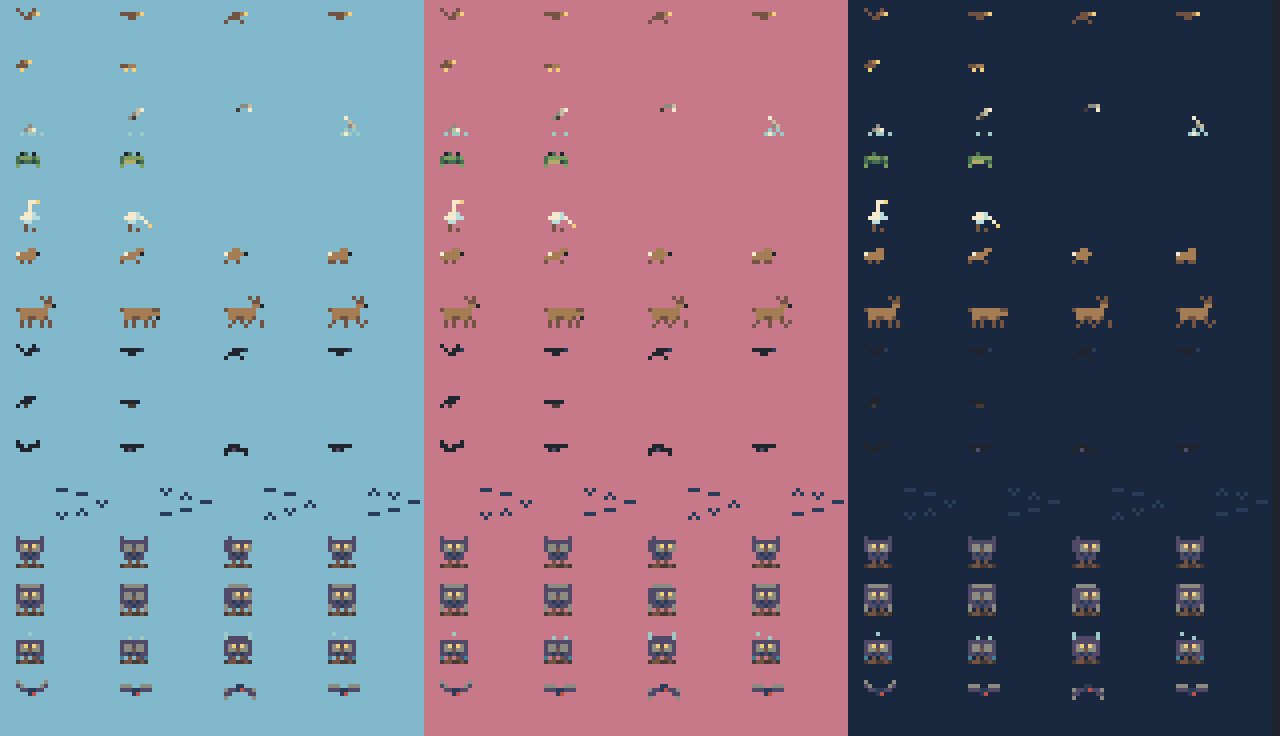
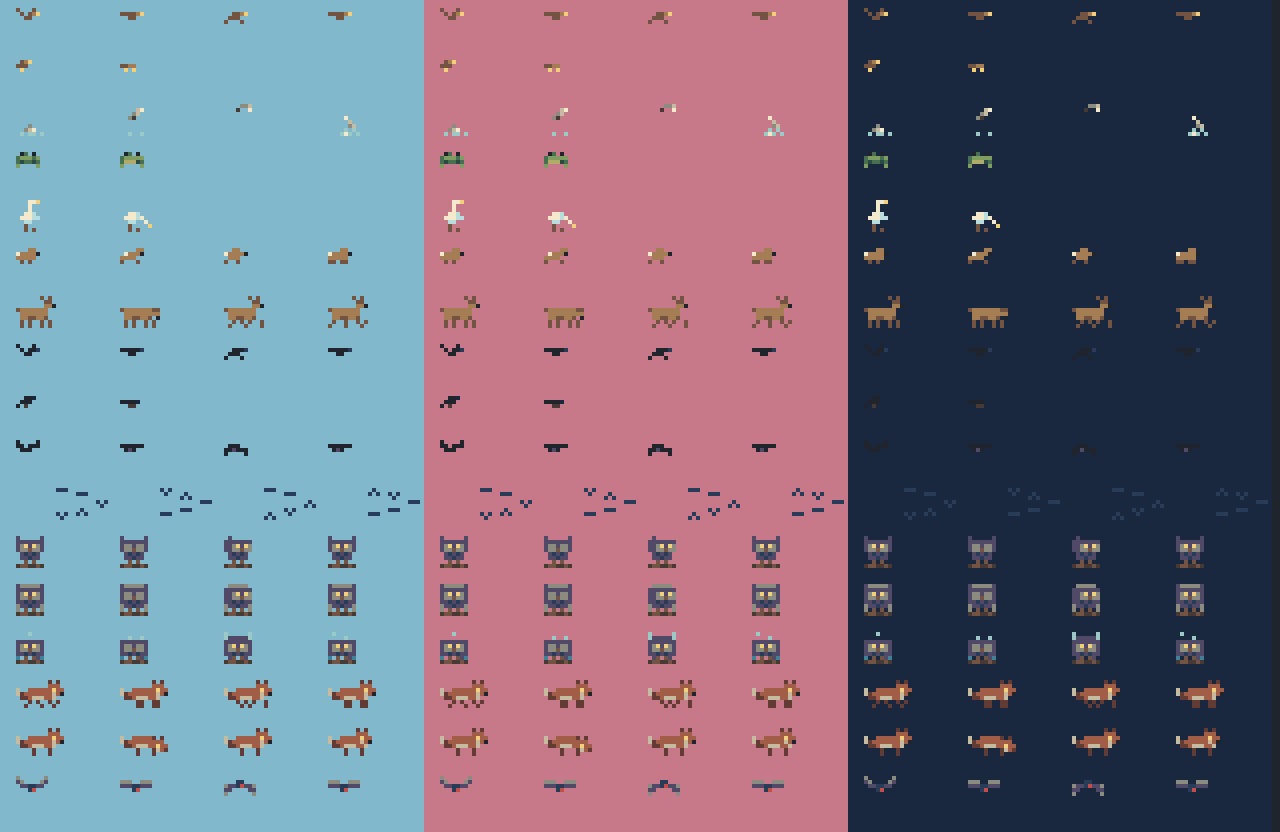
Raposa da madrugada (criaturas/raposa_noite_4q trotando e raposa_parada_4q), em tons de noite; LEIA-ME seção 17; atlas regenerados

diff --git a/arte_claude/pecas/criaturas/criaturas.py b/arte_claude/pecas/criaturas/criaturas.py
@@ -12,7 +12,7 @@ sys.path.insert(0, str(AQUI.parent))
 
 from comum import PALETA, folha_quadros, gravar, para_imagem  # noqa: E402
 
-K = {"x": 30, "d": 8, "n": 9, "N": 10, "G": 12, "g": 11, "W": 31, "w": 0, "y": 22, "o": 21, "r": 20,
+K = {"R": 24, "Q": 23, "C": 12, "x": 30, "d": 8, "n": 9, "N": 10, "G": 12, "g": 11, "W": 31, "w": 0, "y": 22, "o": 21, "r": 20,
      "v": 15, "V": 14, "m": 13, "b": 18, "c": 19, "B": 17, "e": 3, "k": 4, "K": 5, "s": 16}
 
 
@@ -113,6 +113,22 @@ CRIATURAS = {
         ["c.....c", "cKKKKKc", "KKKKKKK", "KgyKygK", "KggnggK", "KKkKkKK", ".Kn.nK.", "dnnddnd"],
         [".c.....", "....c..", "KKKKKKK", "KgyKygK", "KggnggK", "KKkKkKK", "b.n.nKb", "dnnddnd"],
     ),
+    # raposa da madrugada (12x7), já em tons de noite: ferrugem apagada (24 e 23), peito e
+    # ponta do rabo claros (12), olho que brilha (22). Trote: as patas alternam.
+    "raposa_noite_4q": molde(
+        ["........Q.Q.", "........RRR.", "C..RRRRRRyRR", "CQRRRRRRRCRx", ".QQRCCCRRC..", "...Q.Q..Q.Q.", "..Q...Q..Q.."],
+        ["........Q.Q.", "........RRR.", "C..RRRRRRyRR", "CQRRRRRRRCRx", ".QQRCCCRRC..", "....QQ..QQ..", "....QQ..QQ.."],
+        ["........Q.Q.", "........RRR.", "C..RRRRRRyRR", "CQRRRRRRRCRx", ".QQRCCCRRC..", "...Q.Q.Q..Q.", "....Q.Q...Q."],
+        ["........Q.Q.", "........RRR.", "C..RRRRRRyRR", "CQRRRRRRRCRx", ".QQRCCCRRC..", "....QQ..QQ..", "....QQ..QQ.."],
+    ),
+    # raposa parada (12x7): olhando (olho aceso), cheirando o chão (cabeça baixa), olhando,
+    # e de orelha em pé virada para trás
+    "raposa_parada_4q": molde(
+        ["........Q.Q.", "........RRR.", "C..RRRRRRyRR", "CQRRRRRRRCRx", ".QQRCCCRRC..", "....Q...Q...", "....Q...Q..."],
+        ["............", "............", "C..RRRRRQ.Q.", "CQRRRRRRRRR.", ".QQRCCCRRyRR", "....Q...QCRQ", "....Q...Q..."],
+        ["........Q.Q.", "........RRR.", "C..RRRRRRyRR", "CQRRRRRRRCRx", ".QQRCCCRRC..", "....Q...Q...", "....Q...Q..."],
+        [".......Q.Q..", ".......RRR..", "C..RRRRRyRR.", "CQRRRRRRCRx.", ".QQRCCCRRC..", "....Q...Q...", "....Q...Q..."],
+    ),
     # morcego da madrugada (8x5), maior que o do entardecer e com a borda das asas clara
     # (luz da lua) para ler sobre o céu escuro; olhos vermelhos
     "morcego_noite_4q": molde(
@@ -155,6 +171,8 @@ QUANDO = {
     "bando_migrando_4q": ("inverno (e fim do outono)", "dia", "atravessa o céu alto de um lado a outro"),
     "coruja_pousada_4q": ("todas", "noite e madrugada", "pousada num galho de árvore ou no telhado; pisca"),
     "morcego_noite_4q": ("primavera, verão, outono", "noite e madrugada", "voa em zigue-zague perto das árvores e da fogueira"),
+    "raposa_noite_4q": ("todas", "noite e madrugada", "trota na beira da floresta e da vila, de cabeça baixa"),
+    "raposa_parada_4q": ("todas", "noite e madrugada", "para, cheira o chão e olha em volta; foge de gente"),
     "coruja_neve_4q": ("inverno", "noite e madrugada", "no lugar da coruja pousada quando há neve"),
     "coruja_chuva_4q": ("todas menos inverno", "noite e madrugada, com chuva", "no lugar da pousada enquanto chove"),
 }

diff --git a/arte_claude/pecas/LEIA-ME.md b/arte_claude/pecas/LEIA-ME.md
@@ -476,7 +476,7 @@ As amostras são `amostra_tela_estante_4x.png` (duas prateleiras com 12 eras) e 
 
 ## 17. Vida ambiente (`criaturas/`)
 
-São criaturas que não fazem parte da simulação: só dão vida ao cotidiano. São pequenas, animadas e olham para a direita; para o outro lado, o motor espelha. A base é a última linha: os pés de quem está no chão, ou o centro de quem voa. Elas usam a tabela `noite`, menos os morcegos e a coruja, que já vêm em tons de noite. `amostra_criaturas_4x.png` mostra todas sobre o dia, o entardecer e a noite.
+São criaturas que não fazem parte da simulação: só dão vida ao cotidiano. São pequenas, animadas e olham para a direita; para o outro lado, o motor espelha. A base é a última linha: os pés de quem está no chão, ou o centro de quem voa. Elas usam a tabela `noite`, menos os morcegos, a coruja e a raposa, que já vêm em tons de noite. `amostra_criaturas_4x.png` mostra todas sobre o dia, o entardecer e a noite.
 
 | Folha | Quadro | Quadros | Estação | Horário | Onde e como |
 |---|---|---|---|---|---|
@@ -493,6 +493,8 @@ São criaturas que não fazem parte da simulação: só dão vida ao cotidiano. 
 | `bando_migrando_4q` | 24 × 8 | 4 | inverno (e fim do outono) | dia | atravessa o céu alto de um lado a outro |
 | `coruja_pousada_4q` | 7 × 8 | 4 | todas | noite e madrugada | pousada num galho (o galho vem na peça: a linha 7 é o galho, ponha-a sobre a copa de uma árvore, a ponta de um pinheiro ou um telhado). Quadros: olhando, piscando, olhando para o lado, olhando. Fique no quadro 0 por 2 a 4 s e passe pelo 1 (piscar) ou pelo 2 (virar) por uns 0,3 s. Os olhos amarelos são o que se lê no escuro. |
 | `morcego_noite_4q` | 8 × 5 | 4 | primavera, verão, outono | noite e madrugada | maior que o do entardecer, com a borda das asas clara (a luz da lua) e olhos vermelhos, para ler sobre o céu e as árvores escuras. Voa em zigue-zague perto das árvores e da fogueira, 1 ou 2 por vez, a cada poucos minutos de 1x. |
+| `raposa_noite_4q` | 12 × 7 | 4 | todas | noite e madrugada | a raposa trotando, já em tons de noite (ferrugem apagada, peito e ponta do rabo claros, olho que brilha). A base é a última linha (as patas). Anda devagar (uns 8 px/s) na beira da floresta ou da vila e some no mato; espelhe para ir à esquerda. |
+| `raposa_parada_4q` | 12 × 7 | 4 | todas | noite e madrugada | parada: olhando (quadro 0), cheirando o chão (1), olhando (2) e virando a cabeça para trás (3). Mesmo encaixe da que trota. Alterne com ela: trota, para 2 a 4 s, cheira e segue. Se alguém chega perto, ela vira e trota para longe. |
 | `coruja_neve_4q` | 7 × 8 | 4 | inverno | noite e madrugada | a coruja pousada com neve (no cinza da noite) no alto da cabeça e no galho, e o corpo estufado de frio. Mesmos quadros e mesmo encaixe da `coruja_pousada_4q`; use no lugar dela quando há neve. |
 | `coruja_chuva_4q` | 7 × 8 | 4 | primavera, verão, outono | noite e madrugada, com chuva | encolhida, sem os tufos, com pingos batendo na cabeça e escorrendo. No quadro 2 ela se sacode e os pingos voam. Use no lugar da pousada enquanto chove. |
 
